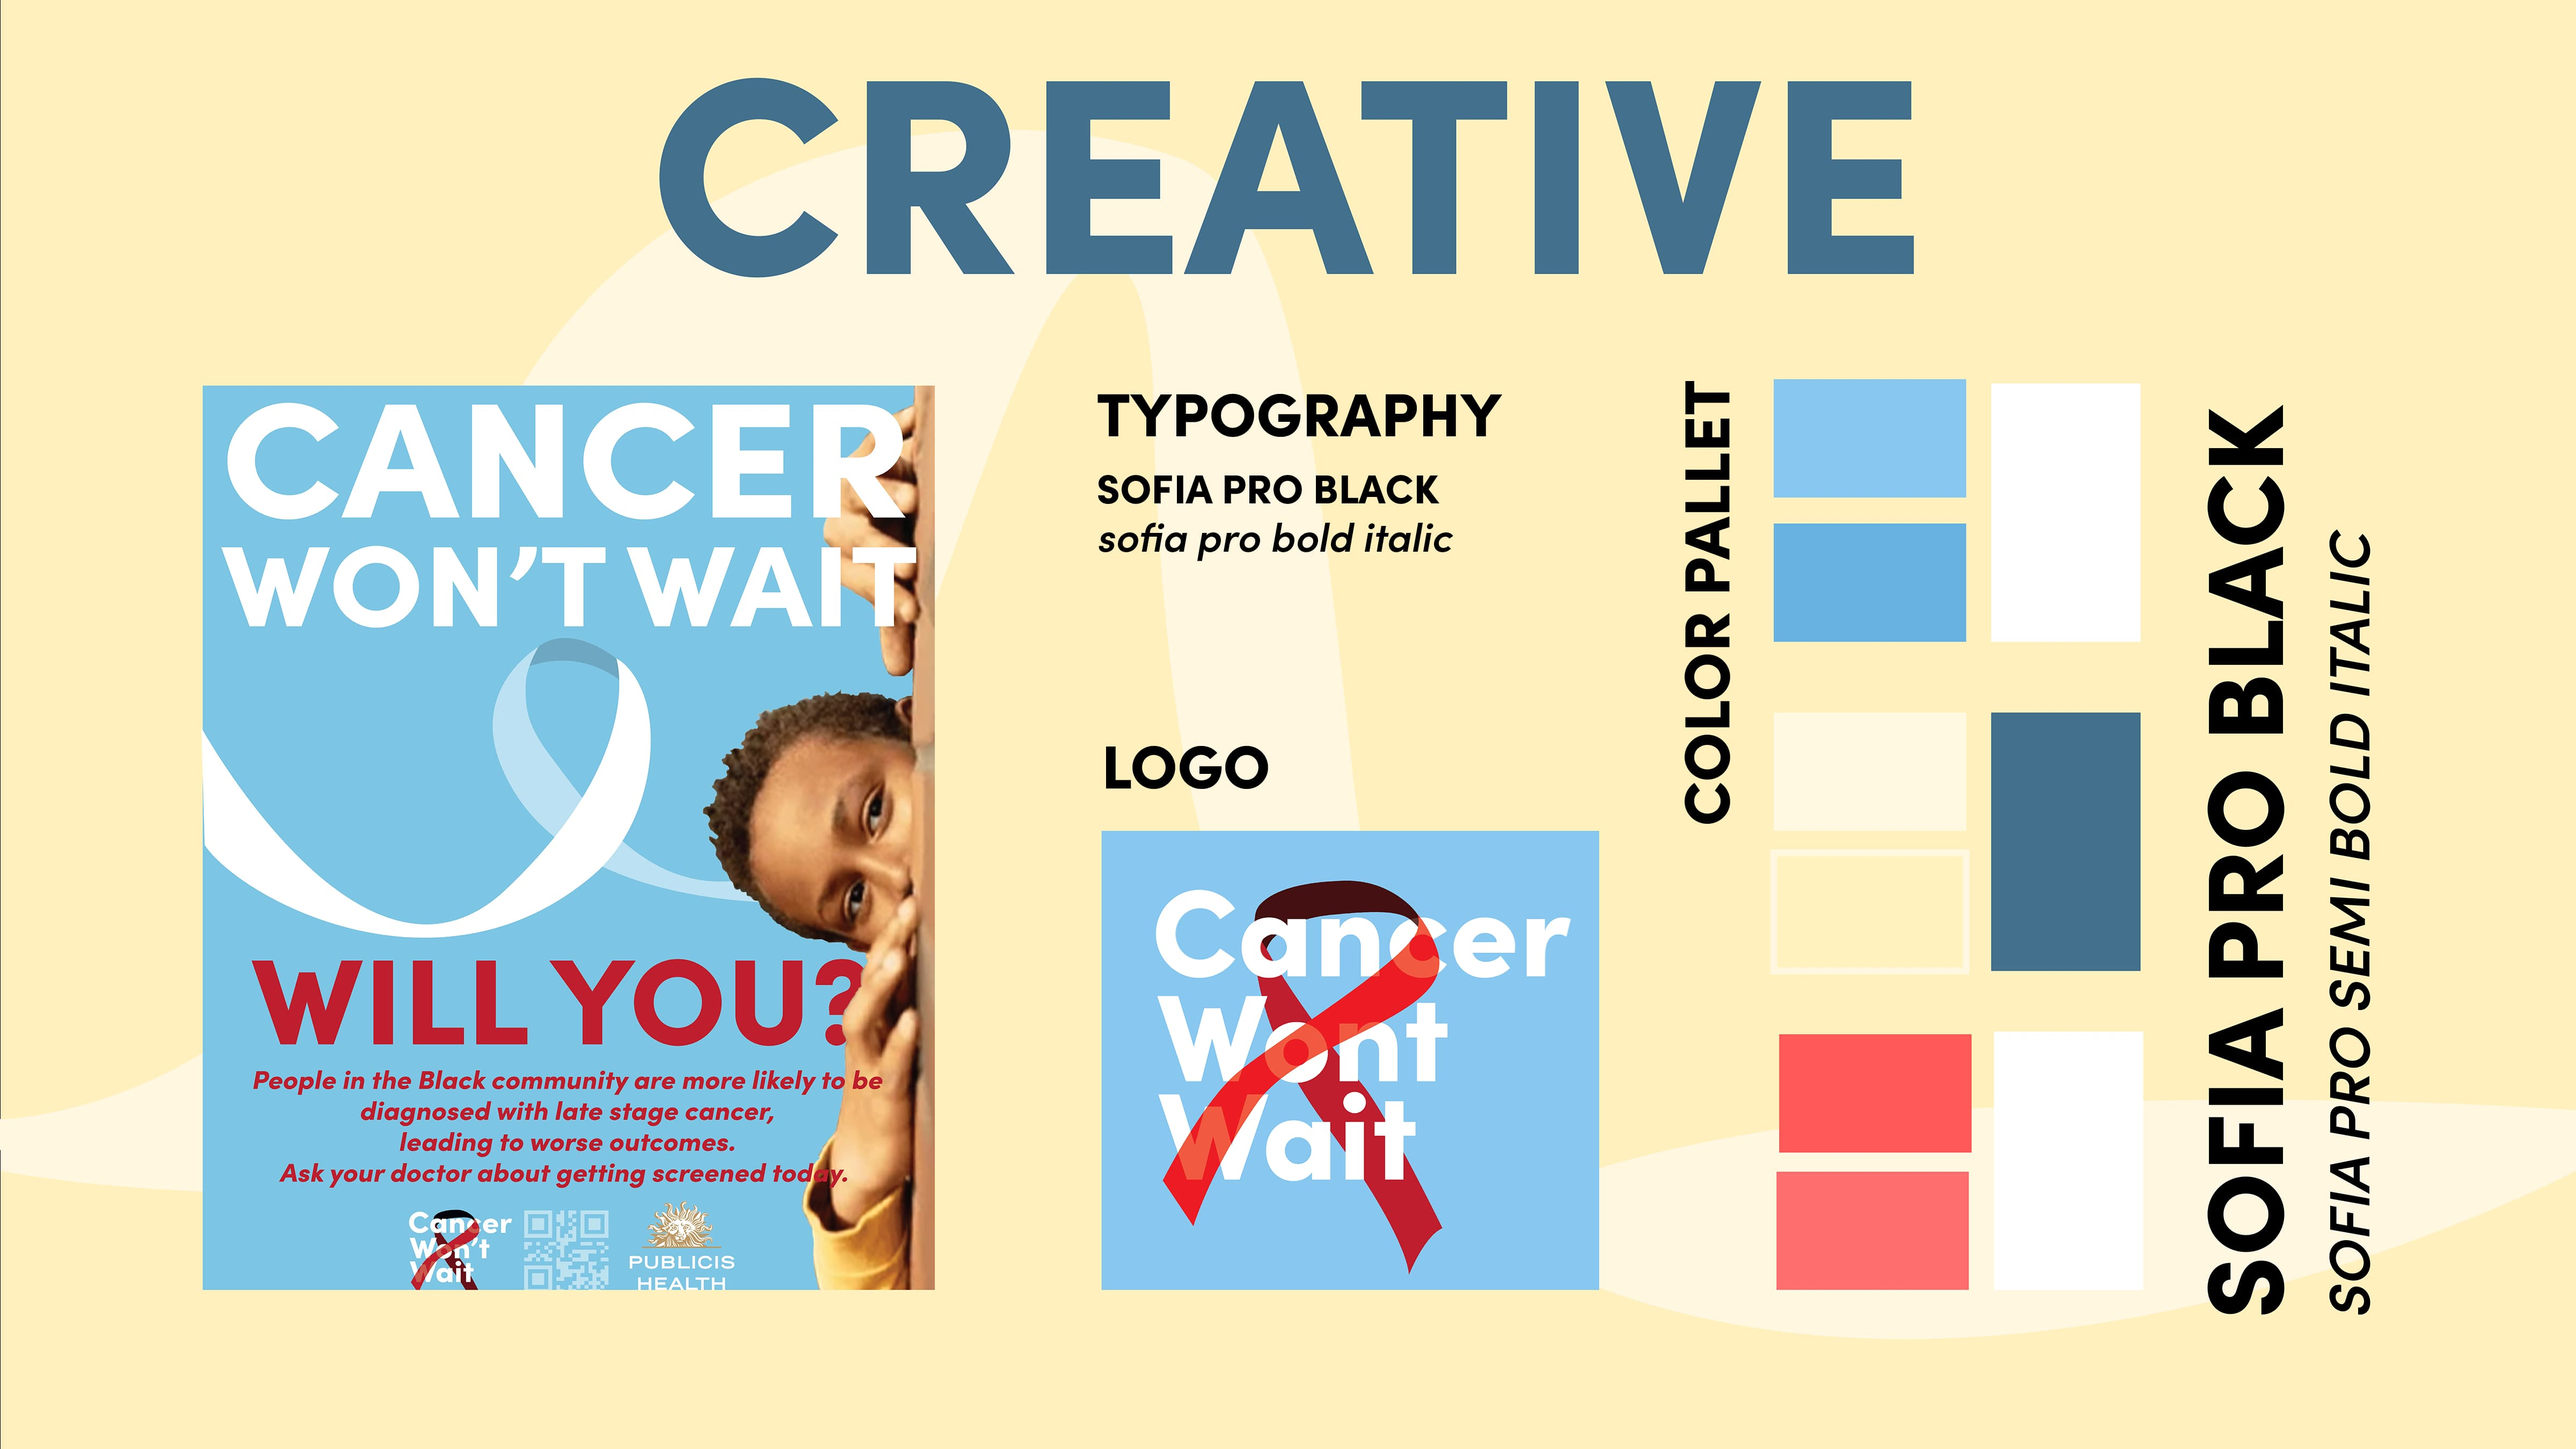
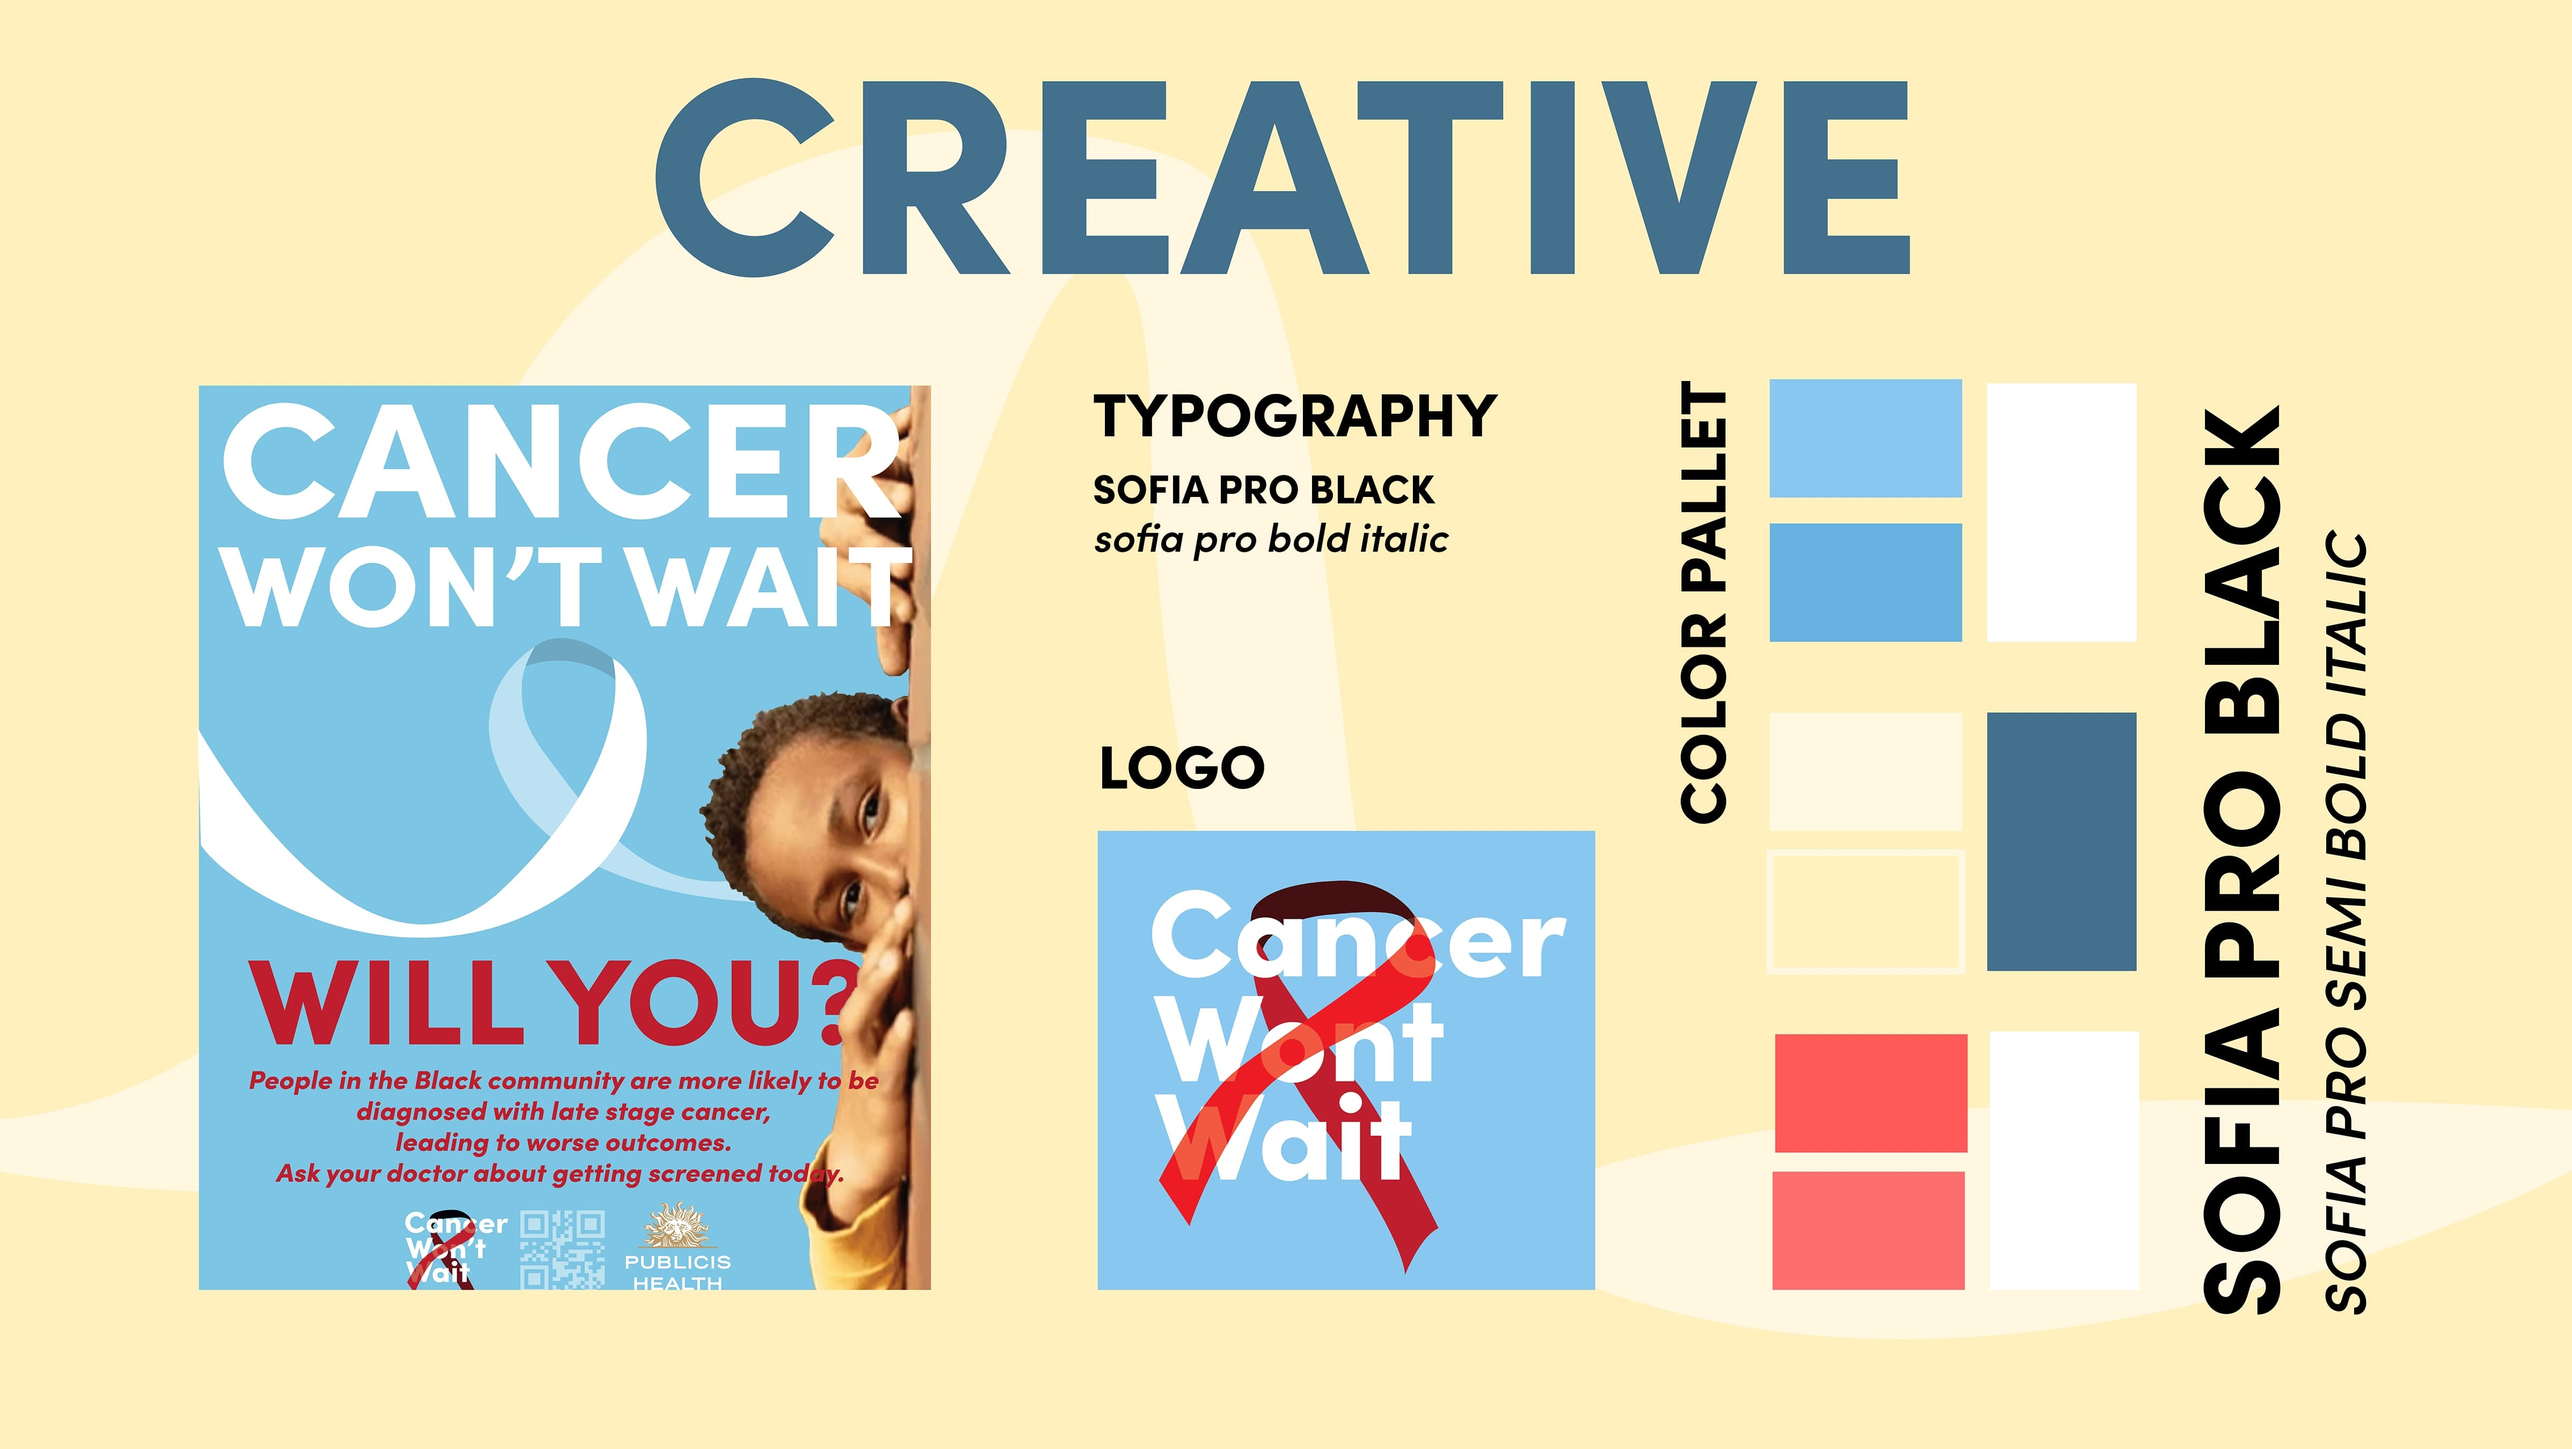
Bump C8+C10 max-height from 400px to 480px

diff --git a/campaigns.html b/campaigns.html
@@ -88,8 +88,8 @@
         </div>
 
         <div class="img-grid-2" style="align-items: center;">
-          <img src="images_1/C8.png" alt="Cancer Won't Wait — Subway Ad Design" style="max-height: 400px; object-fit: contain;">
-          <img src="images_1/C10.jpg" alt="Cancer Won't Wait — Instagram Phone" style="max-height: 400px; object-fit: contain;">
+          <img src="images_1/C8.png" alt="Cancer Won't Wait — Subway Ad Design" style="max-height: 480px; object-fit: contain;">
+          <img src="images_1/C10.jpg" alt="Cancer Won't Wait — Instagram Phone" style="max-height: 480px; object-fit: contain;">
         </div>
 
         <p class="project__section-label">Physical Ad</p>
